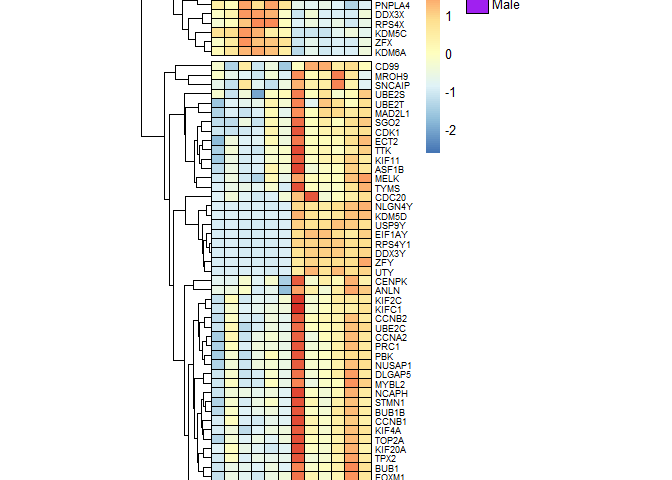
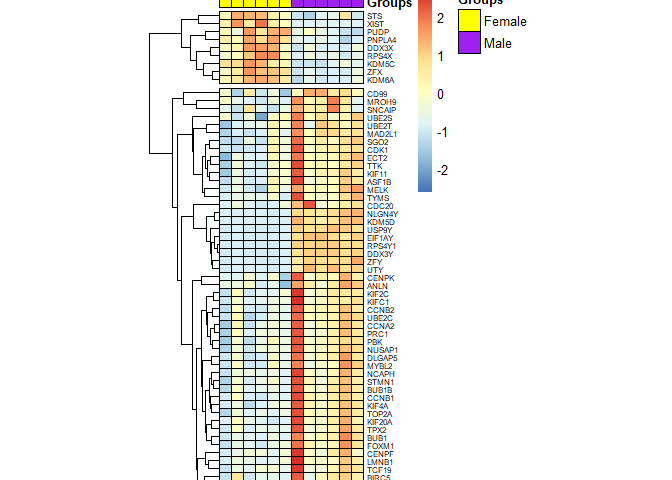
09.05.2024

Changed region(s): [[0.2188, 0.0, 0.7812, 1.0]]

diff --git a/2-demographic_cohorts_background_differences.md b/2-demographic_cohorts_background_differences.md
@@ -264,24 +264,23 @@ x2 = list( Groups = c(Female="yellow", Male="purple"))
 
 temp4 <- as.matrix(counts_CTRL_FvM)
 pheatmap(temp4, 
-           color = colorRampPalette(rev(brewer.pal(n = 7, name ="RdYlBu")))(100), 
-           display_numbers = FALSE,
-           number_color = "black",
-           fontsize_number = 5,
-           angle_col = c("45"), 
-           cellwidth = 10, 
-           cellheight = 7, 
-           border_color = "black",
-           annotation_col = x,
-           annotation_colors = x2,
-           show_colnames = F, 
-           treeheight_col = 1, 
-           fontsize_row = 7, 
-           scale = 'row', 
-           fontsize_col = 7, 
-           cutree_rows =  2, 
-           cluster_cols = TRUE, 
-           cluster_rows = TRUE)
+         color = colorRampPalette(rev(brewer.pal(n = 7, name ="RdYlBu")))(100), 
+         display_numbers = FALSE,
+         number_color = "black",
+         fontsize_number = 5,
+         angle_col = c("45"), 
+         cellwidth = 9, 
+         cellheight = 6, 
+         border_color = "black",
+         annotation_col = x,
+         annotation_colors = x2,
+         show_colnames = F, 
+         treeheight_col = 1, 
+         fontsize_row = 6, 
+         scale = 'row', 
+         cutree_rows =  2, 
+         cluster_cols = TRUE, 
+         cluster_rows = TRUE)
 ```
 
 ![](README_figs/README2-unnamed-chunk-9-1.png)<!-- -->
